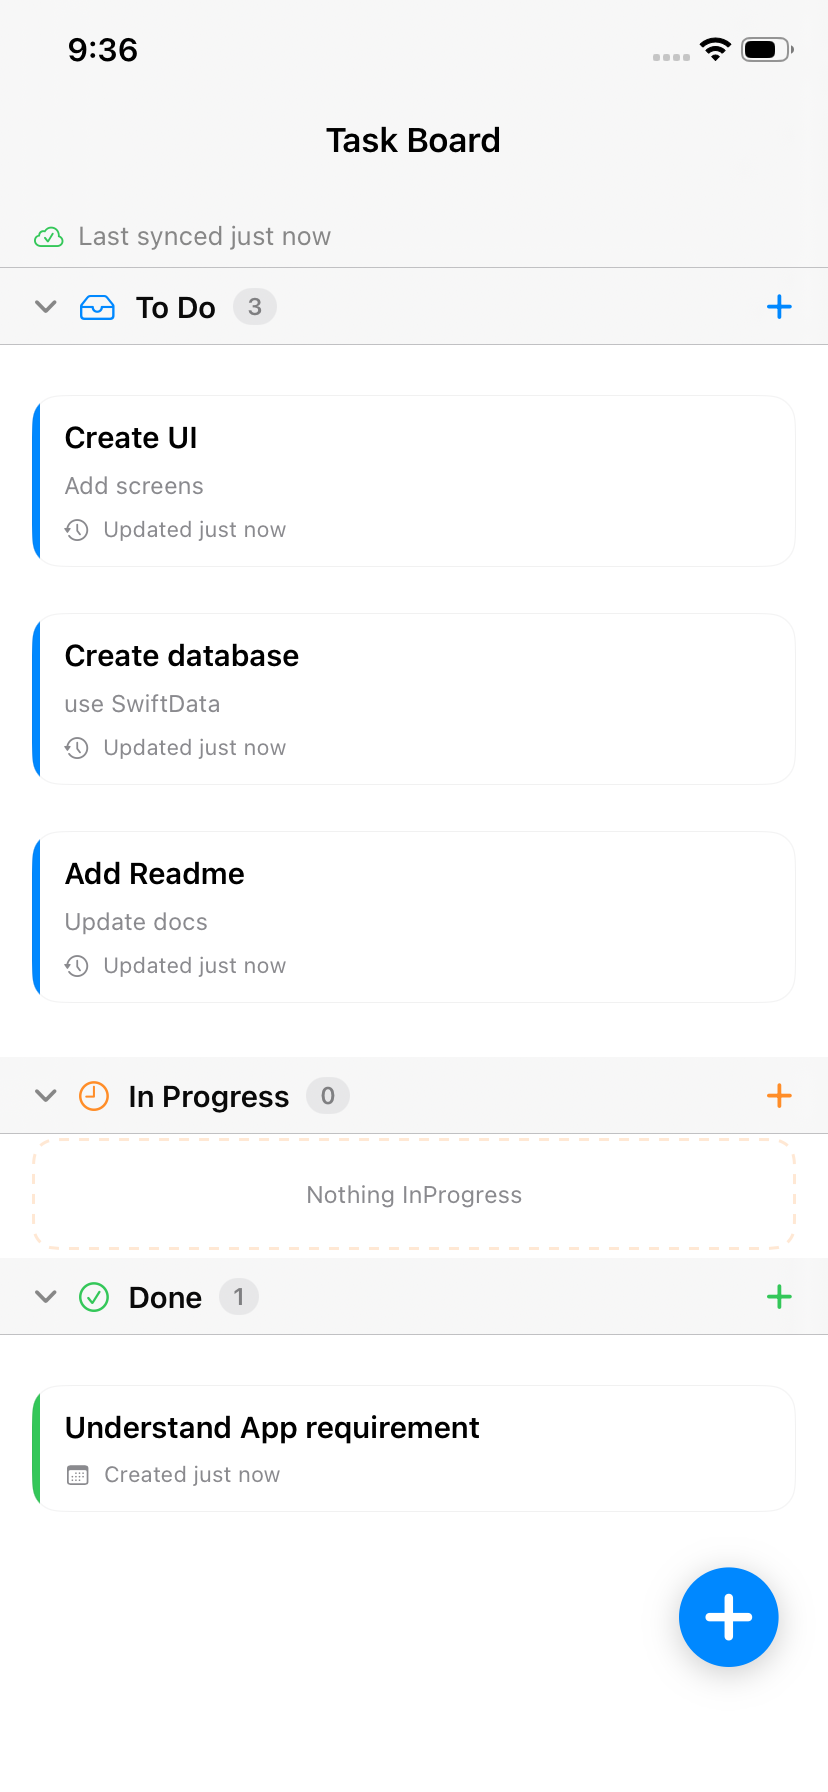
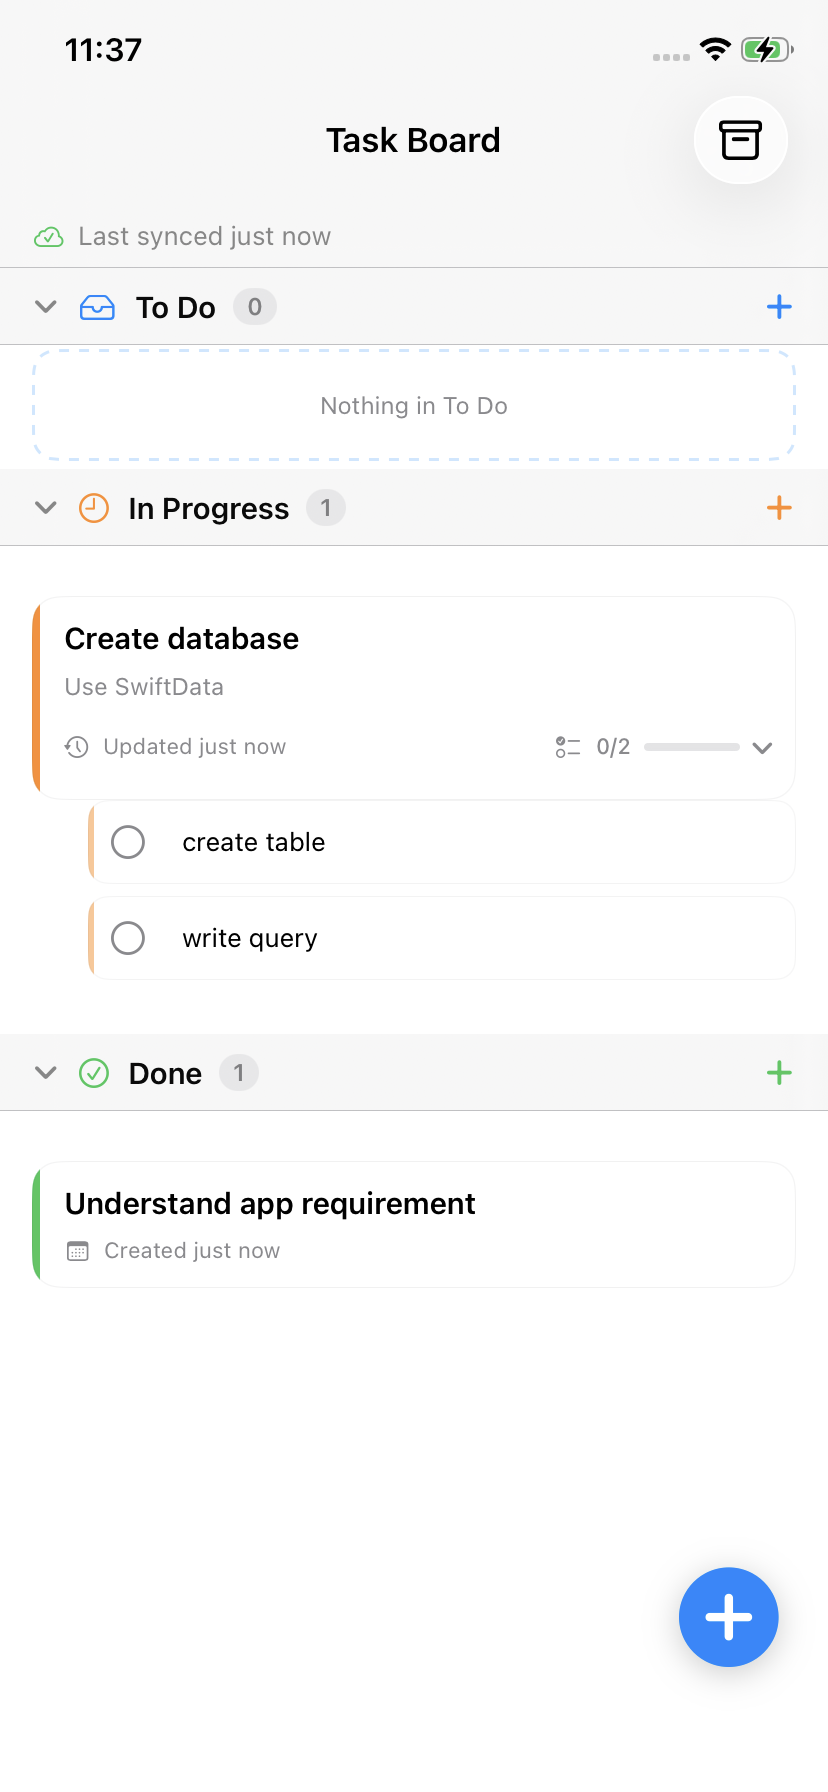
- Updated screenshots

diff --git a/README.md b/README.md
@@ -25,10 +25,18 @@ Note:
 
 ---
 
-| First launch | The board | Unsent changes | Editing |
+## Screenshots
+
+| First launch | Task board | SubTask board | Editing |
 |:---:|:---:|:---:|:---:|
-| <img src="Screenshots/empty.png" width="200"> | <img src="Screenshots/board.png" width="200"> | <img src="Screenshots/sync.png" width="200"> | <img src="Screenshots/editTask.png" width="200"> |
-| Nothing to show yet | Three sections, one scroll | Queued while the server is unreachable | Edit task |
+| <img src="Screenshots/empty.png" width="200"> | <img src="Screenshots/board.png" width="200"> | <img src="Screenshots/board1.png" width="200"> | <img src="Screenshots/editTask.png" width="200"> |
+| Nothing to show yet | Three sections, one scroll | Tasks with sub tasks | Edit task |
+
+
+| Activity history | Archive |
+|:---:|:---:|
+| <img src="Screenshots/activity.png" width="200"> | <img src="Screenshots/archive.png" width="200"> |
+| Activity history | Archived tasks |
 
 ---
 
@@ -100,7 +108,6 @@ blocked, and the board never waits on a request.
 ## AI tools used
 
 * Used Claude and ChatGPT for syntax or pseudo code some framework like SwiftData, Network, and some part of SwiftUI complex rendering.
-
 
 
 
